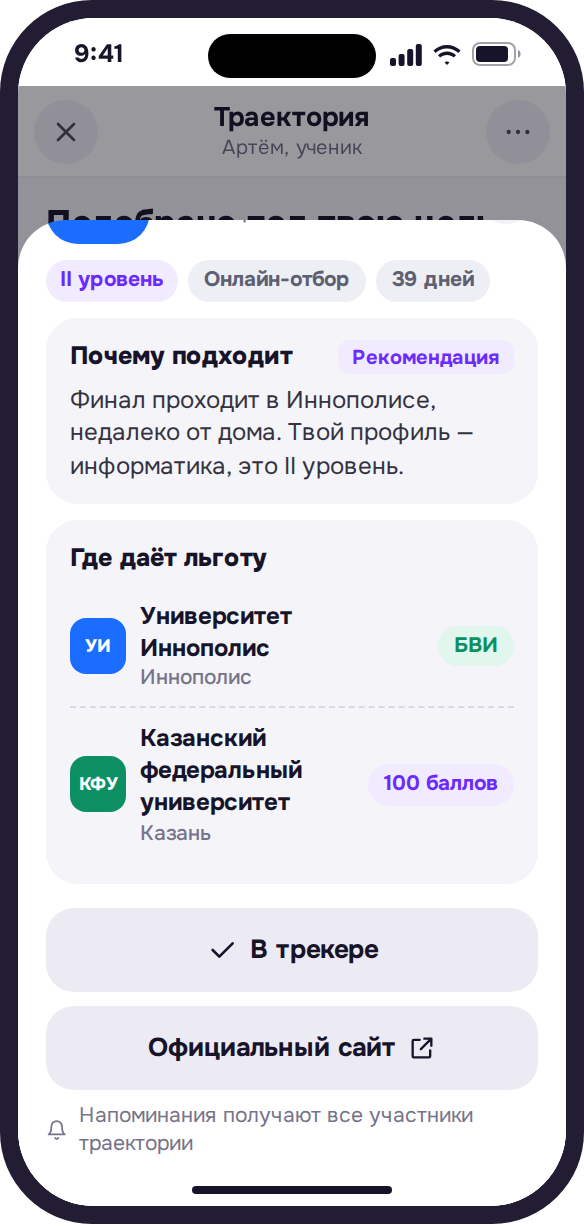
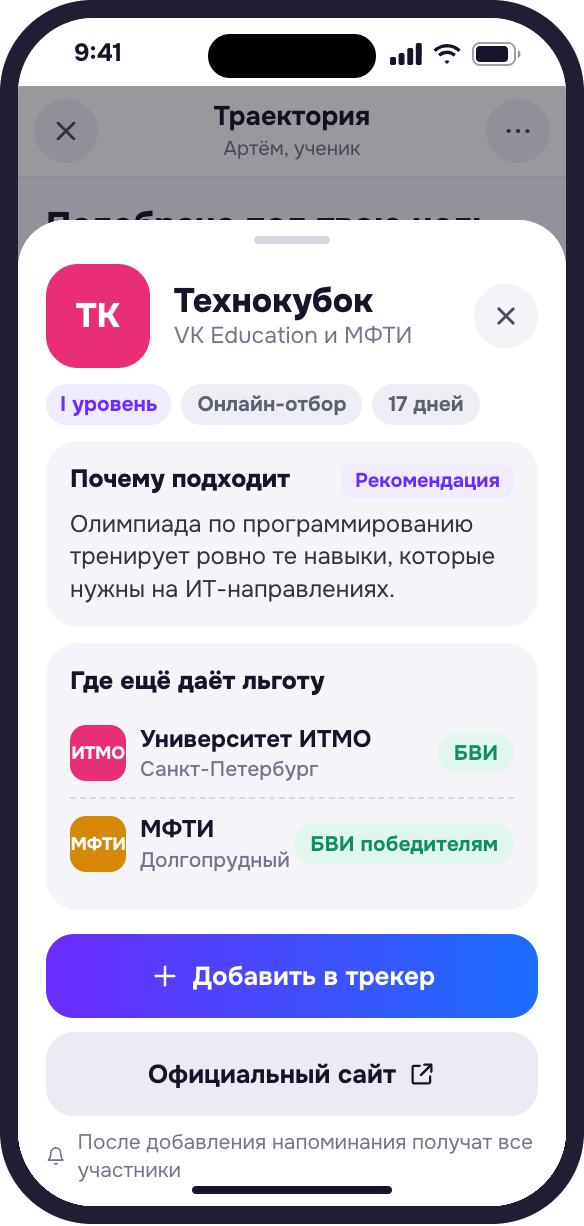
feat: этапы и даты под уровнем, «Где ещё даёт льготу» без вузов ученика
- Карточка олимпиады: «Этапы и даты» сразу под уровнем по профилям
  (или под «Не входит в перечень»), до льгот.
- Блок «Где даёт льготу» переименован в «Где ещё даёт льготу» и больше
  не повторяет вузы ученика: они уже в «Льгота и условия». API и моки
  фильтруют одинаково, описание контракта обновлено.
- ТЗ (F21, F23), список функций, прототип и экран C6 — под новое
  поведение; C6 теперь на «Технокубке», у которого есть другие вузы.

diff --git a/docs/prototype/index.html b/docs/prototype/index.html
@@ -1017,14 +1017,14 @@ function scDetail(s,o,part){
   if(o.per==='vsosh') h+=`<div class="blk"><div class="blk-h">Этапы ВсОШ <span class="tag demo">Демо-даты</span></div><div class="tl">${o.stages.map((x,i)=>`<div class="stg ${i===0?(rg?'dn':'now'):''}"><b>${x[0]}</b><span>${x[1]}</span></div>`).join('')}</div><div class="fine">Чтобы пройти на следующий этап, нужно набрать проходной балл текущего.</div></div>`;
   else if(o.per) h+=`<div class="blk"><div class="blk-h">Уровень по профилям <span class="tag fact">Факт</span></div><div class="lvls">${o.profiles.map(([p,l])=>`<span class="lv ${p==='Информатика'?'me':''}">${p}: ${l}</span>`).join('')}</div><div class="fine">${V(s,'Твой профиль','Профиль Артёма')} — информатика. У каждого профиля олимпиады свой уровень.</div><div class="src">${ic('doc',13)} Перечень олимпиад, приказ № 669</div></div>`;
   else h+=`<div class="blk"><div class="blk-h">Не входит в перечень</div><div class="blk-t">Льгот при поступлении не даёт. Некоторые вузы начисляют за диплом дополнительные баллы.</div></div>`;
+  if(o.per!=='vsosh'&&!part) h+=`<div class="blk"><div class="blk-h">Этапы и даты <span class="tag demo">Демо-даты</span></div><div class="tl">${o.stages.map((x,i)=>`<div class="stg ${i===0?(rg?'dn':'now'):''}"><b>${x[0]}</b><span>${x[1]}</span></div>`).join('')}</div></div>`;
   h+=`<div class="blk"><div class="blk-h">${V(s,'Льгота в твоих вузах','Льгота в вузах Артёма')} <span class="tag fact">Факт</span></div>${[...s.prof.vuz].map(id=>benRow(VBY[id],benefitOf(id,o.id),'vuz')).join('')}<div class="src">${ic('doc',13)} Правила приёма вузов на 2026 год. Проверено 15.09.2026</div></div>`;
   h+=`<div class="blk"><div class="blk-h">Условия</div>${o.cond.map(c=>`<div class="cond">${ic('check',13,2.6)}<span>${c}</span></div>`).join('')}</div>`;
  }
  if(bot){
   h+=`<div class="blk"><div class="blk-h">Почему подходит <span class="tag rec">Рекомендация</span></div><div class="blk-t">${V(s,o.why,o.whyP)}</div></div>`;
-  if(o.per!=='vsosh'&&part!=='bottom') h+=`<div class="blk"><div class="blk-h">Этапы и даты <span class="tag demo">Демо-даты</span></div><div class="tl">${o.stages.map((x,i)=>`<div class="stg ${i===0?(rg?'dn':'now'):''}"><b>${x[0]}</b><span>${x[1]}</span></div>`).join('')}</div></div>`;
-  const ex=VUZ.filter(v=>benefitOf(v.id,o.id));
-  if(ex.length) h+=`<div class="blk"><div class="blk-h">Где даёт льготу</div>${ex.map(v=>benRow(v,benefitOf(v.id,o.id),'vuz')).join('')}</div>`;
+  const ex=VUZ.filter(v=>benefitOf(v.id,o.id)&&!s.prof.vuz.has(v.id));
+  if(ex.length) h+=`<div class="blk"><div class="blk-h">Где ещё даёт льготу</div>${ex.map(v=>benRow(v,benefitOf(v.id,o.id),'vuz')).join('')}</div>`;
   let main;
   if(!isP(s)) main=`<button class="btn ${on?'gh':''}" data-a="track" data-v="${o.id}">${on?ic('check',16)+' В трекере':ic('plus',16)+' Добавить в трекер'}</button>`;
   else if(on) main=`<button class="btn gh" data-a="toast" data-v="Олимпиада уже в общем трекере">${ic('check',16)} В трекере</button>`;
@@ -1310,7 +1310,7 @@ put('g-c',[
  {c:'C3',t:'Подбор',d:'Олимпиады из перечня и ВсОШ с причиной рекомендации, фильтры и отдельный блок олимпиад вне перечня.',f:'13, 15, 16',html:appScreen(st({tab:'match'}))},
  {c:'C4',t:'Ветка ВсОШ',d:'Четыре этапа от школьного до заключительного и льготы за диплом финала.',f:'14, 21',html:appScreen(st({tab:'match',sheet:[{t:'oly',id:'vsosh',part:'top'}]}))},
  {c:'C5',t:'Карточка: уровень, льготы, условия',d:'Уровень профиля ученика, льгота в каждом из его вузов с источником и условия подтверждения.',f:'17, 18, 19',html:appScreen(st({tab:'match',sheet:[{t:'oly',id:'hse',part:'top'}]}))},
- {c:'C6',t:'Карточка: причина и вузы',d:'Ниже в карточке: почему олимпиада подходит, вузы, где она даёт льготу, кнопка трекера и официальный сайт.',f:'20, 22, 23, 28',html:appScreen(st({tab:'match',sheet:[{t:'oly',id:'inno',part:'bottom'}]}))}
+ {c:'C6',t:'Карточка: причина и вузы',d:'Ниже в карточке: почему олимпиада подходит, где ещё она даёт льготу, кроме вузов ученика, кнопка трекера и официальный сайт.',f:'20, 22, 23, 28',html:appScreen(st({tab:'match',sheet:[{t:'oly',id:'tk',part:'bottom'}]}))}
 ]);
 put('g-d',[
  {c:'D1',t:'Каталог олимпиад',d:'Все олимпиады базы с поиском, фильтром по предмету и городу финала.',f:'24, 27',html:appScreen(st({tab:'catalog',catSubj:'inf'}))},
@@ -1356,7 +1356,7 @@ const FUNCS=[
  ['Онбординг в чате'],[4,'Имя: из профиля MAX или имя ребёнка',['A3','B1']],[5,'Класс',['A3','B1']],[6,'Регион',['A4','B2']],[7,'Любимые предметы',['A4','B2']],[8,'Цель или «Пока не знаю»',['A5','B2']],[9,'Вузы ученика',['A6','B2']],
  ['Результат'],[10,'Итоговое сообщение',['A7','B3']],[11,'Кнопки «Открыть мини-приложение», «Напоминать», «Пригласить»',['A7','B3']],[12,'Мини-приложение поверх чата',['A8']],
  ['Подбор олимпиад'],[13,'3–5 олимпиад и ВсОШ с причиной',['C3']],[14,'ВсОШ отдельной веткой',['C4']],[15,'Фильтры',['C3']],[16,'Олимпиады вне перечня',['C3']],
- ['Карточка олимпиады'],[17,'Уровень профиля',['C5']],[18,'Льгота в вузах ученика',['C5']],[19,'Условия',['C5']],[20,'«Почему подходит»',['C6']],[21,'Этапы и даты',['C4']],[22,'Официальный сайт',['C6']],[23,'Вузы, где олимпиада даёт льготу',['C6']],
+ ['Карточка олимпиады'],[17,'Уровень профиля',['C5']],[18,'Льгота в вузах ученика',['C5']],[19,'Условия',['C5']],[20,'«Почему подходит»',['C6']],[21,'Этапы и даты',['C4']],[22,'Официальный сайт',['C6']],[23,'Где ещё олимпиада даёт льготу',['C6']],
  ['Каталог'],[24,'Раздел «Олимпиады»',['D1']],[25,'Раздел «Вузы»',['D2','D3']],[26,'Олимпиады из карточки вуза',['D3']],[27,'Поиск и фильтры',['D1','D2']],
  ['Сроки'],[28,'Добавление в трекер',['C6','E1']],[29,'Напоминания за месяц, неделю, 3 дня и 1 день',['I1']],[30,'Кнопки в напоминании',['I1','I2']],[31,'Статусы в трекере',['E1']],[32,'Календарь',['E2']],[33,'Уведомления об изменениях',['I4']],[34,'Следующий шаг на главной',['C1']],
  ['ИИ-помощник'],[35,'Ответы по карточкам со ссылками',['F1']],[36,'«Данных нет» и первоисточник',['F2']],[37,'Личный чат у каждого',['F1','F2','F5']],

diff --git a/apps/web/src/screens/OlympiadSheet.tsx b/apps/web/src/screens/OlympiadSheet.tsx
@@ -181,6 +181,18 @@ export function OlympiadSheet({ id, sheets }: { id: string; sheets: SheetStack }
         </section>
       )}
 
+      {/* Этапы и даты — F21, сразу под уровнем: когда регистрация, важно не
+          меньше льгот. У ВсОШ этапы уже показаны выше вместо уровней. */}
+      {detail.kind !== 'vsosh' ? (
+        <section className="block">
+          <h3 className="block-head">
+            {t('olympiad.stagesTitle')}
+            <SourceTag kind={detail.stages_are_demo ? 'demo' : 'fact'} />
+          </h3>
+          <Stages detail={detail} />
+        </section>
+      ) : null}
+
       {/* Льгота и условия в вузах ученика — F18, F19: сначала общие
           условия, потом вузы, и под каждым — его особенности. */}
       <section className="block">
@@ -226,18 +238,7 @@ export function OlympiadSheet({ id, sheets }: { id: string; sheets: SheetStack }
         <p className="block-text">{detail.why}</p>
       </section>
 
-      {/* Этапы и даты — F21. У ВсОШ они уже показаны выше. */}
-      {detail.kind !== 'vsosh' ? (
-        <section className="block">
-          <h3 className="block-head">
-            {t('olympiad.stagesTitle')}
-            <SourceTag kind={detail.stages_are_demo ? 'demo' : 'fact'} />
-          </h3>
-          <Stages detail={detail} />
-        </section>
-      ) : null}
-
-      {/* Где даёт льготу — F23. */}
+      {/* Где ещё даёт льготу — F23: вузы базы, кроме вузов ученика. */}
       {detail.benefit_universities.length > 0 ? (
         <section className="block">
           <h3 className="block-head">{t('olympiad.whereTitle')}</h3>

diff --git a/apps/web/src/screens/OlympiadSheet.test.tsx b/apps/web/src/screens/OlympiadSheet.test.tsx
@@ -75,3 +75,23 @@ it('условия — в блоке льгот: общие сверху, сво
   // Общий список — над вузами.
   expect(general.compareDocumentPosition(firstRow) & Node.DOCUMENT_POSITION_FOLLOWING).toBeTruthy()
 })
+
+const blockOrder = () => screen.getAllByRole('heading', { level: 3 }).map((h) => h.textContent)
+
+// Даты — сразу под уровнями: «когда» важно не меньше, чем «насколько сильная».
+// «Где ещё даёт льготу» — в конце, после своих вузов.
+it('этапы и даты — сразу под уровнем по профилям', () => {
+  renderSheet({ description: null, official_url: null })
+  expect(blockOrder()).toEqual([
+    expect.stringMatching(/^Уровень по профилям/),
+    expect.stringMatching(/^Этапы и даты/),
+    expect.stringMatching(/^Льгота и условия в твоих вузах/),
+    expect.stringMatching(/^Почему подходит/),
+    'Где ещё даёт льготу',
+  ])
+})
+
+it('вне перечня этапы и даты — сразу под «Не входит в перечень»', () => {
+  renderSheet({ kind: 'other', description: null, official_url: null })
+  expect(blockOrder().slice(0, 2)).toEqual(['Не входит в перечень', expect.stringMatching(/^Этапы и даты/)])
+})

diff --git a/apps/web/src/api/mocks/mocks.test.ts b/apps/web/src/api/mocks/mocks.test.ts
@@ -2,7 +2,7 @@ import { afterEach, beforeEach, describe, expect, it, vi } from 'vitest'
 import { handleMock } from './index'
 import { state } from './state'
 import { ApiError } from '../errors'
-import type { AiChat, AiExchange, AiMessage, CalendarLink, Home, Tracker, TrackerItem } from '@contract'
+import type { AiChat, AiExchange, AiMessage, CalendarLink, Home, OlympiadDetail, Tracker, TrackerItem } from '@contract'
 
 const asKid = () => {
   state.viewerId = 'mem-artem'
@@ -133,6 +133,18 @@ describe('выгрузка календаря', () => {
     expect(text).toMatch(/^BEGIN:VCALENDAR\r\n/)
     expect(text).toMatch(/\r\nSUMMARY:Высшая проба: .+\r\n/)
     expect(text).toMatch(/\r\nEND:VCALENDAR\r\n$/)
+  })
+})
+
+describe('карточка олимпиады', () => {
+  it('«Где ещё даёт льготу» не повторяет вузы ученика из блока льгот', async () => {
+    const detail = (await handleMock('GET', '/olympiads/hse:inf')) as OlympiadDetail
+
+    const mine = detail.benefits.map((row) => row.university_id)
+    const elsewhere = detail.benefit_universities.map((row) => row.university_id)
+    expect(mine).toEqual(expect.arrayContaining(state.universities))
+    expect(elsewhere.length).toBeGreaterThan(0)
+    expect(elsewhere.filter((id) => mine.includes(id))).toEqual([])
   })
 })
 

diff --git a/packages/api-contract/types.gen.ts b/packages/api-contract/types.gen.ts
@@ -1648,7 +1648,7 @@ export interface components {
             stages_are_demo: boolean;
             /** @description Блок «Почему подходит», метка «Рекомендация» (F20). */
             why: string;
-            /** @description Все вузы базы, где эта олимпиада даёт льготу, — блок «Где даёт льготу» (F23). */
+            /** @description Вузы базы, где эта олимпиада даёт льготу, кроме вузов ученика (они в benefits), — блок «Где ещё даёт льготу» (F23). */
             benefit_universities: components["schemas"]["BenefitRow"][];
         };
         Direction: {

diff --git a/apps/web/src/ui/BenefitRow.tsx b/apps/web/src/ui/BenefitRow.tsx
@@ -1,8 +1,8 @@
 /**
  * Строка льготы: вуз слева, что он даёт — справа.
  *
- * Используется в карточке олимпиады дважды («Льгота в твоих вузах» и
- * «Где даёт льготу») и в карточке вуза, поэтому вынесена отдельно.
+ * Используется в карточке олимпиады дважды («Льгота и условия в твоих вузах»
+ * и «Где ещё даёт льготу») и в карточке вуза, поэтому вынесена отдельно.
  */
 
 import type { BenefitRow as BenefitRowData } from '@contract'

diff --git a/apps/web/src/api/mocks/build.ts b/apps/web/src/api/mocks/build.ts
@@ -215,7 +215,8 @@ export function olympiadDetail(profileId: string): OlympiadDetail | null {
     stages: stages(o, registered),
     stages_are_demo: o.stages_are_demo,
     why: o.why[role()],
-    benefit_universities: UNIVERSITIES.filter((u) => u.benefits[o.id]).map((u) =>
+    // Вузы ученика уже в блоке льгот — здесь только остальные (F23).
+    benefit_universities: UNIVERSITIES.filter((u) => u.benefits[o.id] && !state.universities.includes(u.id)).map((u) =>
       benefitRow(u, o.id),
     ),
   }

diff --git a/apps/api/internal/api/olympiad.go b/apps/api/internal/api/olympiad.go
@@ -154,13 +154,20 @@ func (s *Server) olympiad(w http.ResponseWriter, r *http.Request) error {
 		olympiadCard: cs.card(p, res), OfficialURL: p.OfficialURL, Description: p.Description, ProfilesSource: sourceOf(p.Source),
 		BenefitsSource: benefitsSource(mine), Conditions: cs.conditions(p, mine, all),
 		Stages: stagesOf(st, cs.Tracker.Registered[p.ID], cs.Now), StagesAreDemo: len(st) == 0,
-		Why: cs.why(p, res, mine, all), BenefitUniversities: make([]benefitRow, len(all)),
+		Why: cs.why(p, res, mine, all), BenefitUniversities: []benefitRow{},
 	}
 	for _, x := range st {
 		out.StagesAreDemo = out.StagesAreDemo || x.IsDemo
 	}
-	for i, b := range all {
-		out.BenefitUniversities[i] = benefitRowOf(b)
+	// «Где ещё даёт льготу» — без вузов ученика: они уже в блоке льгот (F23).
+	own := map[string]bool{}
+	for _, u := range cs.Universities {
+		own[u.ID] = true
+	}
+	for _, b := range all {
+		if !own[b.UniversityID] {
+			out.BenefitUniversities = append(out.BenefitUniversities, benefitRowOf(b))
+		}
 	}
 
 	sort.SliceStable(siblings, func(i, j int) bool {

diff --git a/apps/api/internal/api/olympiad_test.go b/apps/api/internal/api/olympiad_test.go
@@ -107,9 +107,16 @@ func TestOlympiad_PerechenCard(t *testing.T) {
 		t.Fatalf("этапы: %v", stages)
 	}
 
+	// «Где ещё даёт льготу» — вузы базы, кроме вузов ученика: они уже в
+	// блоке льгот выше.
 	where := list(t, b["benefit_universities"])
-	if len(where) != 8 || where[len(where)-1]["benefit"] != "score100" {
-		t.Fatalf("где даёт льготу — все вузы, сильные льготы первыми: %v", where)
+	if len(where) != 5 || where[len(where)-1]["benefit"] != "score100" {
+		t.Fatalf("где ещё даёт льготу — остальные вузы, сильные льготы первыми: %v", where)
+	}
+	for _, row := range where {
+		if id := row["university_id"]; id == "kfu" || id == "hse" || id == "innopolis" {
+			t.Fatalf("вуз ученика повторён в «Где ещё даёт льготу»: %v", row)
+		}
 	}
 
 	// После отметки о регистрации она пройдена, текущий — отборочный.

diff --git a/docs/TZ.md b/docs/TZ.md
@@ -189,11 +189,11 @@
 
 **F20. Блок «Почему подходит».** Метка «Рекомендация». Текст собирается из факторов подбора (раздел 6.1), с обращением по роли.
 
-**F21. Этапы и даты.** Таймлайн: регистрация, отборочные этапы, заключительный. Ближайший этап выделен, пройденные — серым.
+**F21. Этапы и даты.** Таймлайн: регистрация, отборочные этапы, заключительный. Ближайший этап выделен, пройденные — серым. Блок идёт сразу под уровнем по профилям (или под «Не входит в перечень»), до льгот: когда регистрация, важно не меньше, чем что даёт диплом. У ВсОШ этапы стоят на месте уровней.
 
 **F22. Ссылка на официальный сайт олимпиады.** Открывается через `openLink` MAX Bridge.
 
-**F23. Примеры вузов, где эта олимпиада даёт льготу, с переходом в карточку вуза.** Блок «Где даёт льготу». Переход открывает карточку вуза поверх карточки олимпиады, в шапке появляется «Назад».
+**F23. Примеры вузов, где эта олимпиада даёт льготу, с переходом в карточку вуза.** Блок «Где ещё даёт льготу»: вузы базы, кроме вузов ученика, — те уже есть в блоке «Льгота и условия». Если других вузов нет, блока нет. Переход открывает карточку вуза поверх карточки олимпиады, в шапке появляется «Назад».
 
 ### 4.6. Каталог
 

diff --git a/docs/screens/README.md b/docs/screens/README.md
@@ -25,7 +25,7 @@
 | [C3](C3.png) | Подбор | Олимпиады из перечня и ВсОШ с причиной рекомендации, фильтры и отдельный блок олимпиад вне перечня. | 13, 15, 16 |
 | [C4](C4.png) | Ветка ВсОШ | Четыре этапа от школьного до заключительного и льготы за диплом финала. | 14, 21 |
 | [C5](C5.png) | Карточка: уровень, льготы, условия | Уровень профиля ученика, льгота в каждом из его вузов с источником и условия подтверждения. | 17, 18, 19 |
-| [C6](C6.png) | Карточка: причина и вузы | Ниже в карточке: почему олимпиада подходит, вузы, где она даёт льготу, кнопка трекера и официальный сайт. | 20, 22, 23, 28 |
+| [C6](C6.png) | Карточка: причина и вузы | Ниже в карточке: почему олимпиада подходит, где ещё она даёт льготу, кроме вузов ученика, кнопка трекера и официальный сайт. | 20, 22, 23, 28 |
 | **D** | **Каталог олимпиад и вузов** | | |
 | [D1](D1.png) | Каталог олимпиад | Все олимпиады базы с поиском, фильтром по предмету и городу финала. | 24, 27 |
 | [D2](D2.png) | Каталог вузов | Вузы с городом и числом олимпиад, которые дают льготу. Вузы ученика отмечены. | 25, 27 |

diff --git a/docs/функции.md b/docs/функции.md
@@ -29,7 +29,7 @@
 20. Блок «Почему подходит»
 21. Этапы и даты
 22. Ссылка на официальный сайт олимпиады
-23. Примеры вузов, где эта олимпиада даёт льготу, с переходом в карточку вуза
+23. «Где ещё даёт льготу»: другие вузы базы, где эта олимпиада даёт льготу, с переходом в карточку вуза
 
 **Каталог**
 24. Раздел «Олимпиады»: все олимпиады из базы, открыть можно в любой момент, без привязки к подбору
